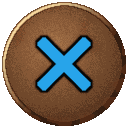
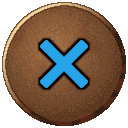
Button prompts: face button symbols a little smaller

Changed region(s): [[0.25, 0.25, 0.75, 0.75]]

diff --git a/tools/make_prompts.py b/tools/make_prompts.py
@@ -123,7 +123,7 @@ def face_kind(name):
     return None
 
 
-LETTER_SCALE = 1.3  # the letters' size on a round plate (Kenney's are small)
+LETTER_SCALE = 1.15  # the letters' size on a round plate (Kenney's are small)
 letter_height = 0.0  # main(): the height that gives them, which the PlayStation shapes match
 
 
